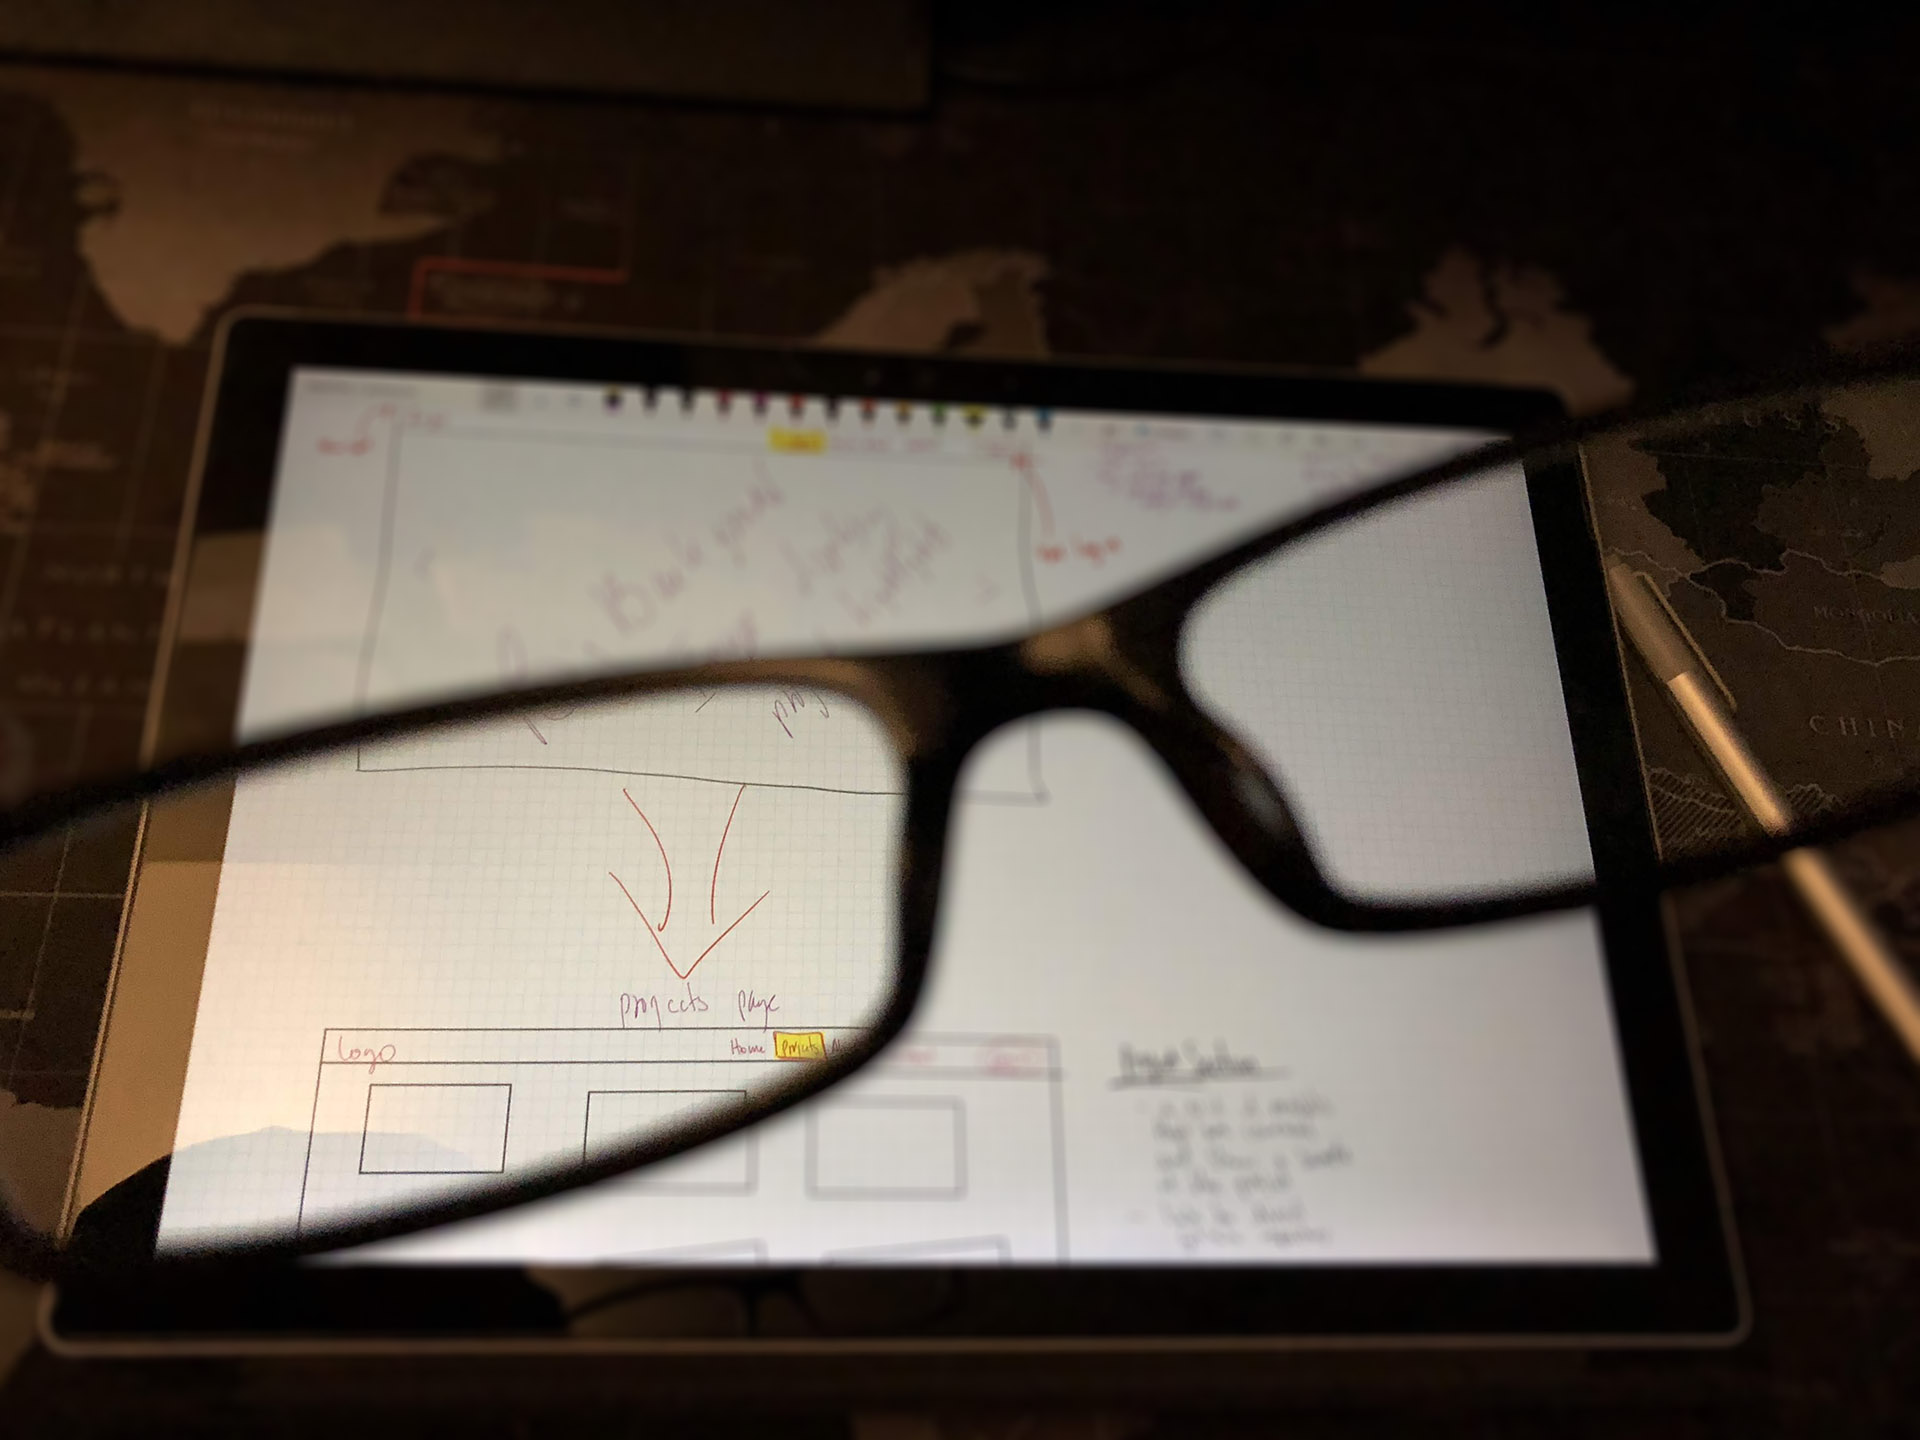
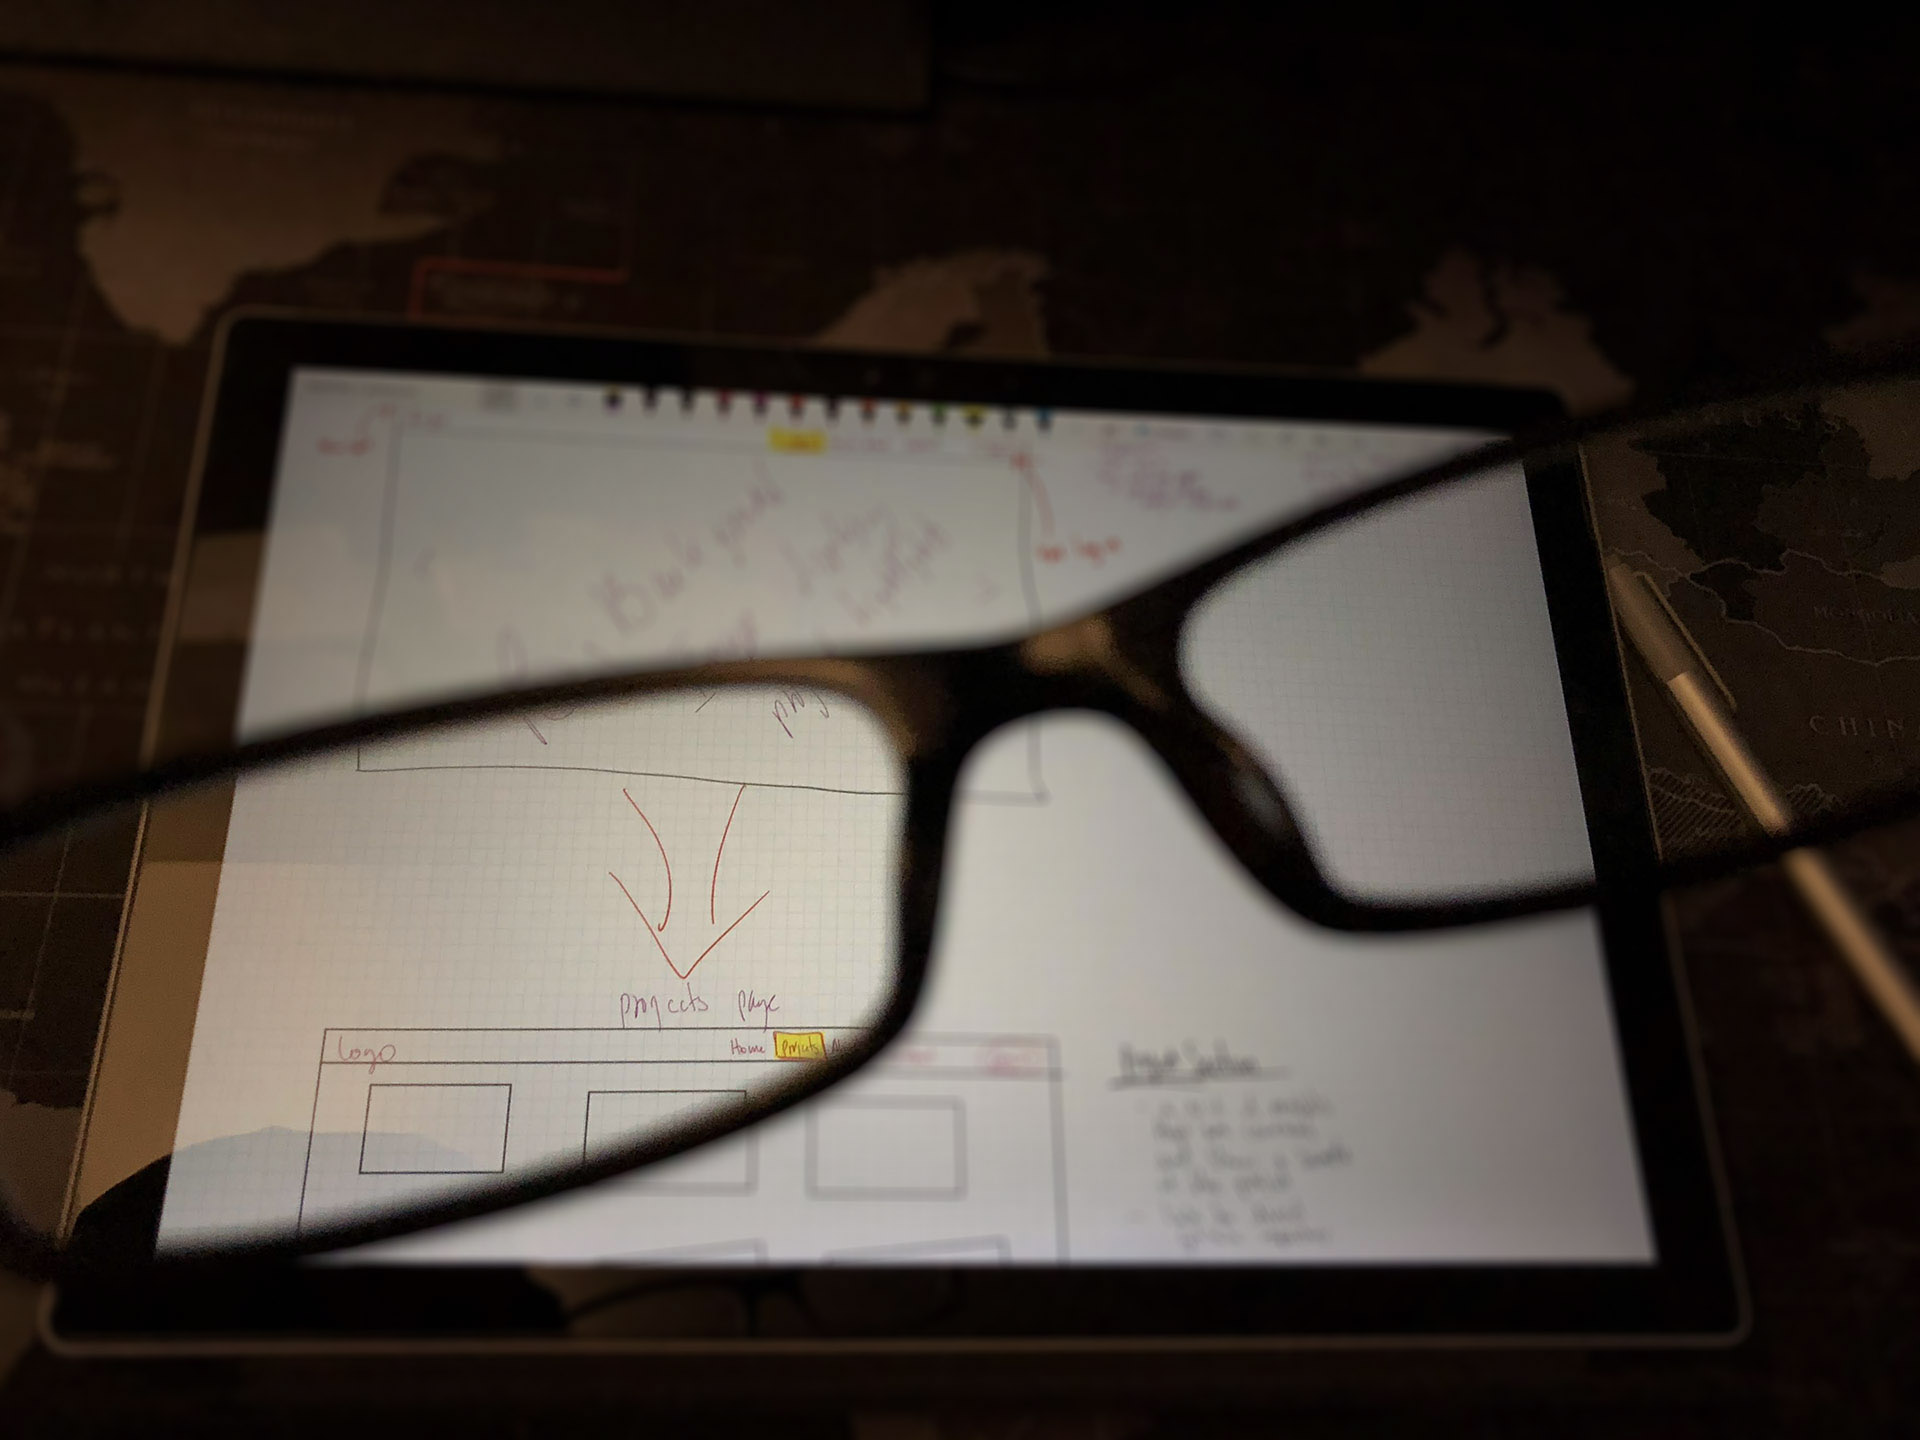
centered gif

diff --git a/index.html b/index.html
@@ -49,7 +49,7 @@
           <li data-target="#carouselExampleIndicators" data-slide-to="1"></li>
           <li data-target="#carouselExampleIndicators" data-slide-to="2"></li>
         </ol>
-        <div class="carousel-inner" role="listbox">
+        <div class="carousel-inner embed-responsive" role="listbox">
           <!-- Slide One - Set the background image for this slide in the line below -->
           <div class="carousel-item active" style="background-image: url('img/slide1.jpg')">
             <div class="carousel-caption d-none d-md-block text-left">
@@ -65,7 +65,7 @@
             </div>
           </div>
           <!-- Slide Three - Set the background image for this slide in the line below -->
-          <div class="carousel-item" style="background-image: url('img/slide3-copy.jpg')">
+          <div class="carousel-item" style="background-image: url('img/slide3.jpg')">
             <div class="carousel-caption d-none d-md-block text-right">
               <h3>Design</h3>
               <p>Having an idea and visualization<br>first makes everything fall together<br>when writing code.</p>
@@ -99,9 +99,9 @@
 				Everyone has a fav gif they like to share, and I always share this gif with my friends. I believe this gif is self explanitory. 😅
 			</p>	
 		</div>
-
-		<div class="col-md-5">
-			<img src="img/drunkenApe.gif" alt="">
+ 
+		<div class="col-md-5 text-center">
+			<img src="img/drunkenApe.gif" class="rounded mx-auto d-block" alt="">
 		</div>
 	</div>
 </div>

diff --git a/css/style.css b/css/style.css
@@ -85,6 +85,19 @@ body {
   background-size: cover;
 }
 
+/*======= makes carousel img responsive ========*/
+/*.img-responsive,
+.thumbnail > img,
+.thumbnail a > img,
+.carousel-inner > .carousel-item > img,
+.carousel-inner > .carousel-item > a > img {
+  display: block;
+  width: 100%;
+  height: auto;
+}*/
+/*======= ===================== ================*/
+
+
 /*==== Fav Gif Section ========*/
 
 .jumbotron {
